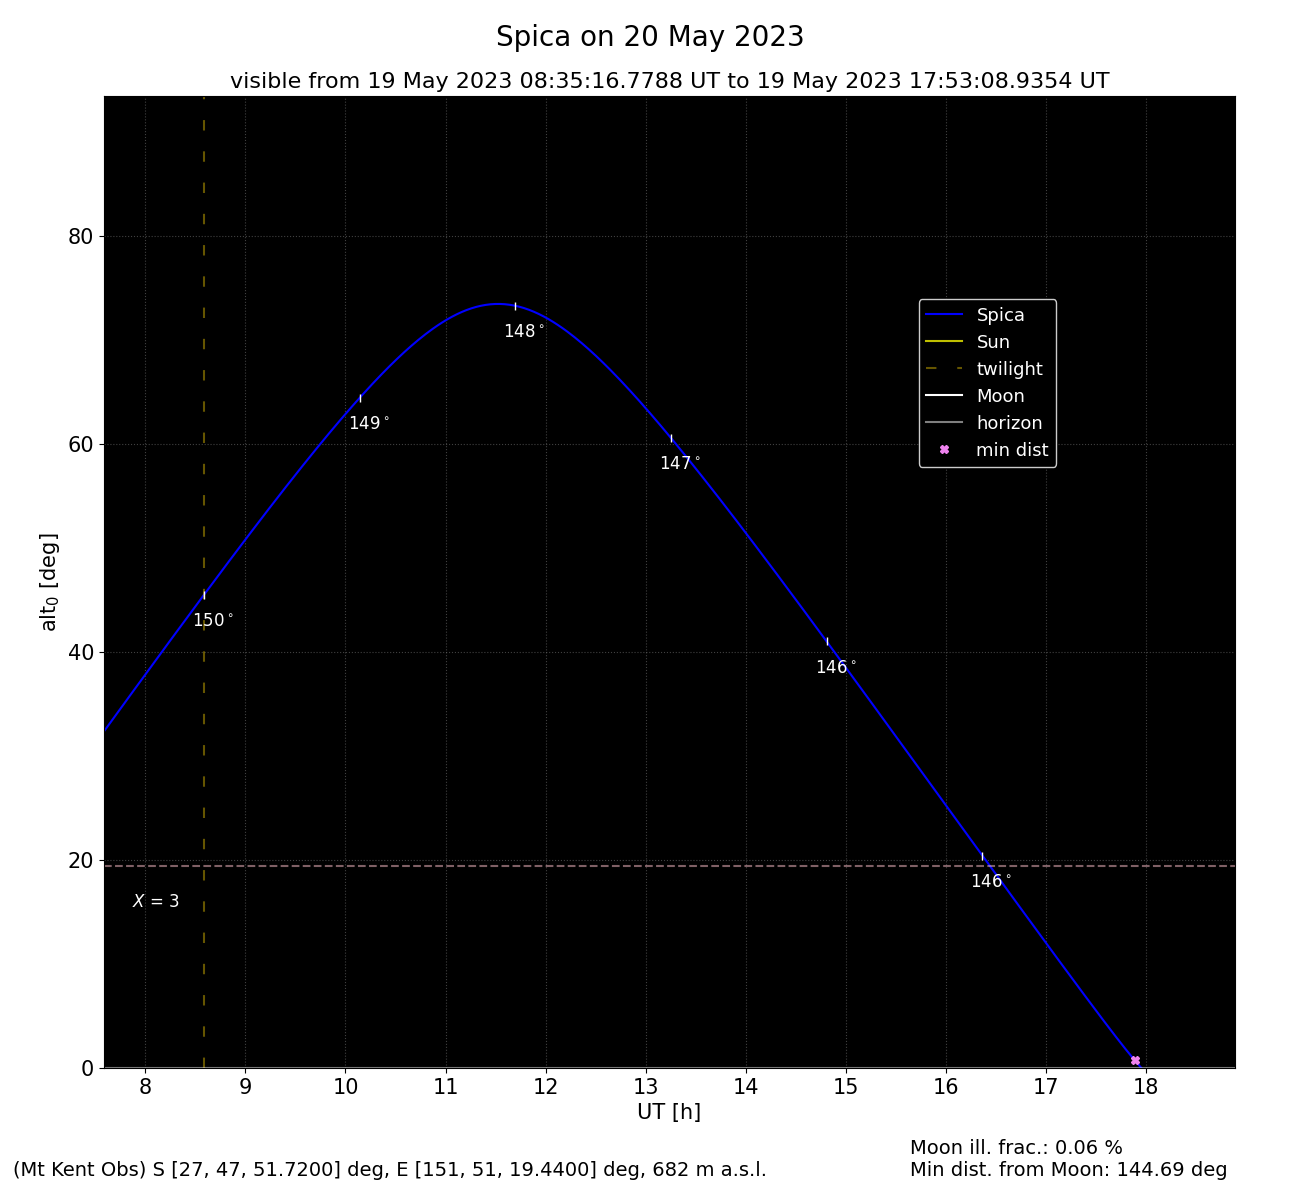
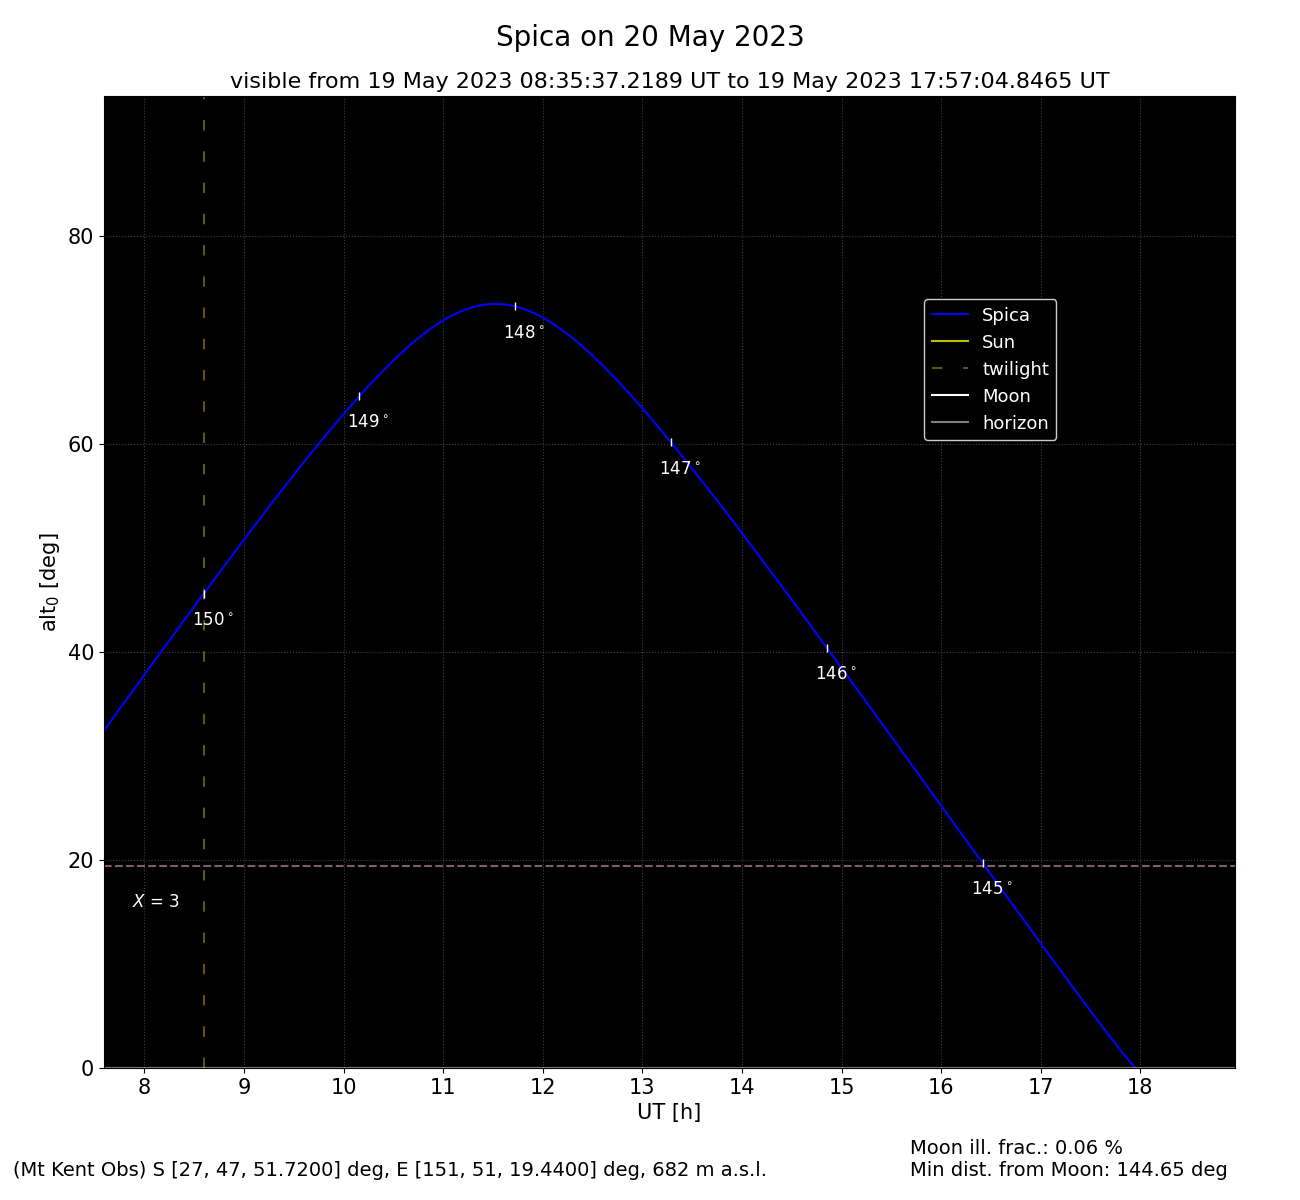
Updates

diff --git a/visibility/sky.py b/visibility/sky.py
@@ -547,11 +547,20 @@ class Sun():
                 m = np.where(abs(m) > 1, m-np.sign(m), m)
                 m = np.where(m < 0, m+1, m)
             
-            time = date.time
-            if mt < m[0]:
+            dm = Date(date.date,m*Time.DAYSEC).jd
+            if dm[0] < date.jd:
+                m[0] += 1
+            elif dm[0] > date.jd+1:
                 m[0] -= 1
-            if mt > m[1]:
+            if dm[1] < date.jd:
                 m[1] += 1
+            elif dm[1] > date.jd+1:
+                m[1] -= 1
+            
+            # if mt < m[0]:
+            #     m[0] -= 1
+            # if mt > m[1]:
+            #     m[1] += 1
             # checking the value       
             # m = np.where(m*24 < time.hour(), m+1, m)
             m = Time(m*Time.DAYSEC)    
@@ -1509,6 +1518,9 @@ def visibility_plot(truedate: Date, date: Date, obj: Target, obs: GeoPos, SUN: S
     plt.plot(dayrange,sunalt.deg - sunrad.deg,'y',alpha=0.5)
     plt.plot(dayrange,sunalt.deg + sunrad.deg,'y',alpha=0.5)
     if type(tw) != bool: 
+        print(dayrange[0],dayrange[-1])
+        print(tw[1],tw[0])
+        print(suntw.print_date())
         plt.axvline(suntw.jd[0],ymin=0,ymax=1,linestyle=(0,(5,10)),alpha=0.4,color='gold',label='twilight')
         plt.axvline(suntw.jd[1],ymin=0,ymax=1,linestyle=(0,(5,10)),alpha=0.4,color='gold')
 
@@ -1566,7 +1578,7 @@ def visibility_plot(truedate: Date, date: Date, obj: Target, obs: GeoPos, SUN: S
     plt.text(0.01, 0.02, location_string, fontsize=14, transform=plt.gcf().transFigure)
     # condition to show the illuminated fraction of the Moon's disk
     if k is not None:
-        info_str = f'Moon ill. frac.: {k*100:.2f} %'
+        info_str = f'Mean Moon ill. frac.: {k*100:.2f} %'
         # condition to show the distance from Moon
         if dist is not None:
             # extracting infotmation
@@ -1600,7 +1612,7 @@ def visibility_plot(truedate: Date, date: Date, obj: Target, obs: GeoPos, SUN: S
     if not_vis is not None:
         props = dict(boxstyle='round', facecolor='red', alpha=0.8)
         plt.text(0.38, 0.5, not_vis, fontsize=23, transform=plt.gcf().transFigure, bbox=props)
-    pos_leg = (-0.04, 0.8)
+    pos_leg = (-0.04, 0.9)
     # condition to plot only the visibility window
     if window is not None and win_par:
         xlims = (window.min()-1/24,window.max()+1/24)
@@ -1666,11 +1678,11 @@ def visibility(date: Date, obj: Target, obs: GeoPos, airmass: float = 3., numpoi
     obj.obj_info()
     
     # computing trans., ris. and set. of the target
-    m = tran_ris_set(date,obs,obj,False)
+    m = tran_ris_set(date,obs,obj,True)
     # initializing Sun
     SUN = Sun()
     # computing twilights
-    tw, t_tw, mtw = SUN.twilight(date,obs,results=False,add_res=True)
+    tw, t_tw, mtw = SUN.twilight(date,obs,results=True,add_res=True)
 
     ## Visibility Routine
     # checking the Sun
@@ -1694,7 +1706,7 @@ def visibility(date: Date, obj: Target, obs: GeoPos, airmass: float = 3., numpoi
             window = np.copy([edges])
     else:
         # getting twilight, sunset and sunrise times in jds 
-        tw = Date(date.date,time=tw).jd
+        tw  = Date(date.date,time=tw).jd
         mtw = Date(date.date,time=mtw).jd
         # shifting the time to get a window during 
         # a single night
@@ -1702,11 +1714,18 @@ def visibility(date: Date, obj: Target, obs: GeoPos, airmass: float = 3., numpoi
             shift = 1
             if abs(start_point-tw[0]) < abs(start_point-tw[1]):
                 shift = -1
-            tw[shift] += shift    
-            mtw[shift] += shift
+            print(shift)
+            newtw, t_tw, newmtw = SUN.twilight(date+shift,obs,results=True,add_res=True)
+            pos = (1-shift)//2
+            tw[pos]  = Date((date+shift).date,newtw.val[pos]).jd    
+            mtw[pos] = Date((date+shift).date,newmtw.val[pos]).jd
+            del pos, shift
         else:
-            tw[1] -= 1
-            mtw[1] -= 1    
+            if tw[1] > tw[0]:
+                print('hey')
+                newtw, t_tw, newmtw = SUN.twilight(date-1,obs,results=True,add_res=True)
+                tw[1]  = Date((date-1).date,newtw.val[1]).jd    
+                mtw[1] = Date((date-1).date,newmtw.val[1]).jd
         start_point = mtw[1] 
         window = np.copy([tw])
         # storing information about Sun
@@ -1772,6 +1791,8 @@ def visibility(date: Date, obj: Target, obs: GeoPos, airmass: float = 3., numpoi
                     # updating the window
                     window = np.array([[tw[1],set],[rise,tw[0]]])
         else:
+            if rise > start_point+1:
+                rise = Date((date-1).date,tran_ris_set(date-1,obs,obj).val[1]).jd
             if rise >= tw[0]:
                 # target does not rise in the window
                 if set > rise or set <= tw[1]:
@@ -1825,6 +1846,9 @@ def visibility(date: Date, obj: Target, obs: GeoPos, airmass: float = 3., numpoi
         dates = Date(jd=aw,calendar=date.calendar)
         # computes the illuminated fraction of the Moon's disk
         k = MOON.ill_fract(dates,SUN.app_lon(dates),SUN.distance(dates))
+        # max value for illuminated fraction
+        maxk  = k.max()
+        dmaxk = dates.jd[k.argmax()]
         # averaging 
         k = k.sum()/len(k)
         # computing ra and dec of the Moon
@@ -1899,7 +1923,8 @@ def visibility(date: Date, obj: Target, obs: GeoPos, airmass: float = 3., numpoi
         print(f'setting:\t{Date(jd=set).print_date()}')
         m = Date(jd=np.array([tran,rise,set])).jd
     print(sun_str)
-    print(f"\nIlluminated fraction of Moon's disk: {k*100:.2f} %")
+    print(f"\nMax illuminated fraction of Moon's disk: {maxk*100:.2f} % on {Date(jd=dmaxk).print_date()}")
+    print(f"Mean illuminated fraction of Moon's disk: {k*100:.2f} %")
     print(f'\nMinimum distance from Moon: {dists[idx]:.3f} deg at {Date(jd=dtime[idx]).print_date()}')
     # printing information about the visibility
     print('\n' + name + f" is visible for {Time.str_time(hvis,'',sep=['h ','m ','s'])[:-1]}")

diff --git a/script.py b/script.py
@@ -3,11 +3,11 @@ from visibility.sky import initialize_data, visibility
 
 if __name__ == '__main__':
     data_file = 'targets.csv'
-    st, end = 0,None
+    st, end = 2,3#,None
     sel = slice(st,end)
-    window = True
+    window = False
     save_fig = False
-    displot = False
+    displot = True
     targets, observatories, dates = initialize_data(data_file,sel=sel)    
 
 
